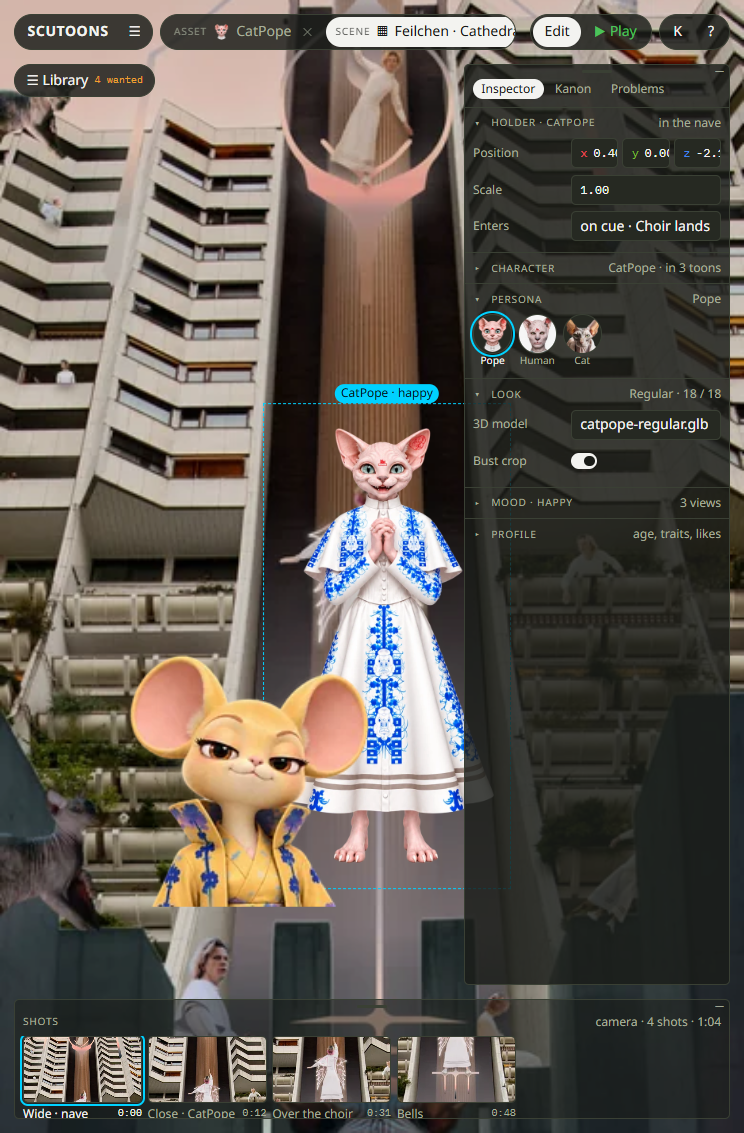
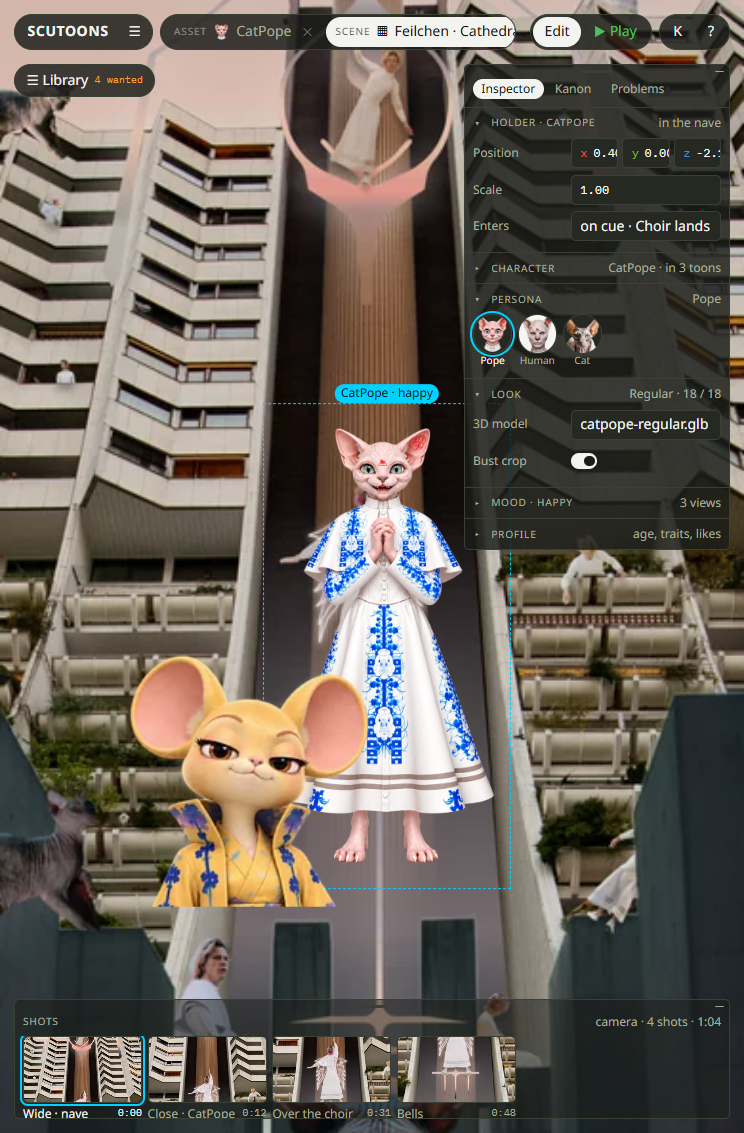
research: #657 draft 2 – the inspector at 744 takes its content's height; direction approved (owner 2026-11-20). Refs #657

Changed region(s): [[0.6183, 0.4634, 0.9892, 0.8959]]

diff --git a/agents/research/redesign/workspace.html b/agents/research/redesign/workspace.html
@@ -264,7 +264,8 @@ const bottomH=v==='scene'?8.6*rem:9.7*rem;
 if(tablet){
   // the library folds to a pill; the inspector and the bottom panel keep 1rem to each other and the walls
   out+=`<div class="mini" style="left:${gap}px;top:${topY}px">☰ Library <span class="n">4 wanted</span></div>`;
-  out+=`<div class="panel solid" style="${box(W-gap-inspW,topY,inspW,H-topY-gap-bottomH-gap)}">${sections(v==='scene')}</div>`;
+  // the inspector takes its content's height and scrolls only when it would reach the bottom panel
+  out+=`<div class="panel solid" style="left:${W-gap-inspW}px;top:${topY}px;width:${inspW}px;max-height:${H-topY-gap-bottomH-gap}px">${sections(v==='scene')}</div>`;
   out+=`<div class="panel" style="${box(gap,H-gap-bottomH,W-2*gap,bottomH)}">${v==='scene'?shotsPanel():moodsPanel()}</div>`;
 }else{
   out+=`<div class="panel" style="${box(gap,topY,libW,H-topY-gap)}">${library(v==='scene')}</div>`;

diff --git a/agents/decisions/creator.md b/agents/decisions/creator.md
@@ -4,6 +4,7 @@ The owner's words, one line each, newest first, append-only (how: agents/DECISIO
 Keys here: `[creator]` 62 the creator app · `[text-boxes]` 9 text boxes · `[timeline]` 3 the timeline
 
 ## 2026-11
+- 2026-11-20 · creator · [creator] **Direction approved: the character page as an Asset tab in the floating-panel workspace (draft 2, agents/research/redesign/workspace.html) – pill toolbar with opened items as tabs, stage full window, Library and Inspector panels shared with the Scene tab, the tab's own bottom panel (Moods with Strip | Grid, Shots).** Asked "Is this the direction for the character page?": *"Yes, go on"* · → #657, #626
 - 2026-11-19 · creator · [creator] **The creator is desktop-only and takes the editor style (deck-kit editor, OSCT editor); flow refined along Scene · Asset · Show · Perform** – the decision and quotes: law.md [editor-style] · → #626
 - 2026-11-18 · creator · [creator] **The docs are a baseline:** the 36 tutorials written on #624 stay as the baseline; the tutorials are made for real once every first-release feature is final and tested thoroughly (the other 28, screenshots, German wait for that) · "we will use this as our tutorial baseline, and later create them once we finalized all first release features and tested thoroughly" · → creator/src/lib/docs, #624
 - 2026-11-18 · creator · [creator] **Creator docs:** a public path `/docs` on creator.scutoons.com compiles the most common use cases of the creation process, each with a tutorial in the nadeos sales-rep format; creator and deck, not admin or embassy; the use-case list (64 cases in 11 phases) approved on #624, the first twelve written · "on creator.scutoons.com can we have a public path docs and there we start compiling the most common use cases within the scutoons creation process. and for each we create a tutorial like we did at nadeos sales rep" · "only for creators" · → creator/src/lib/docs, #624
